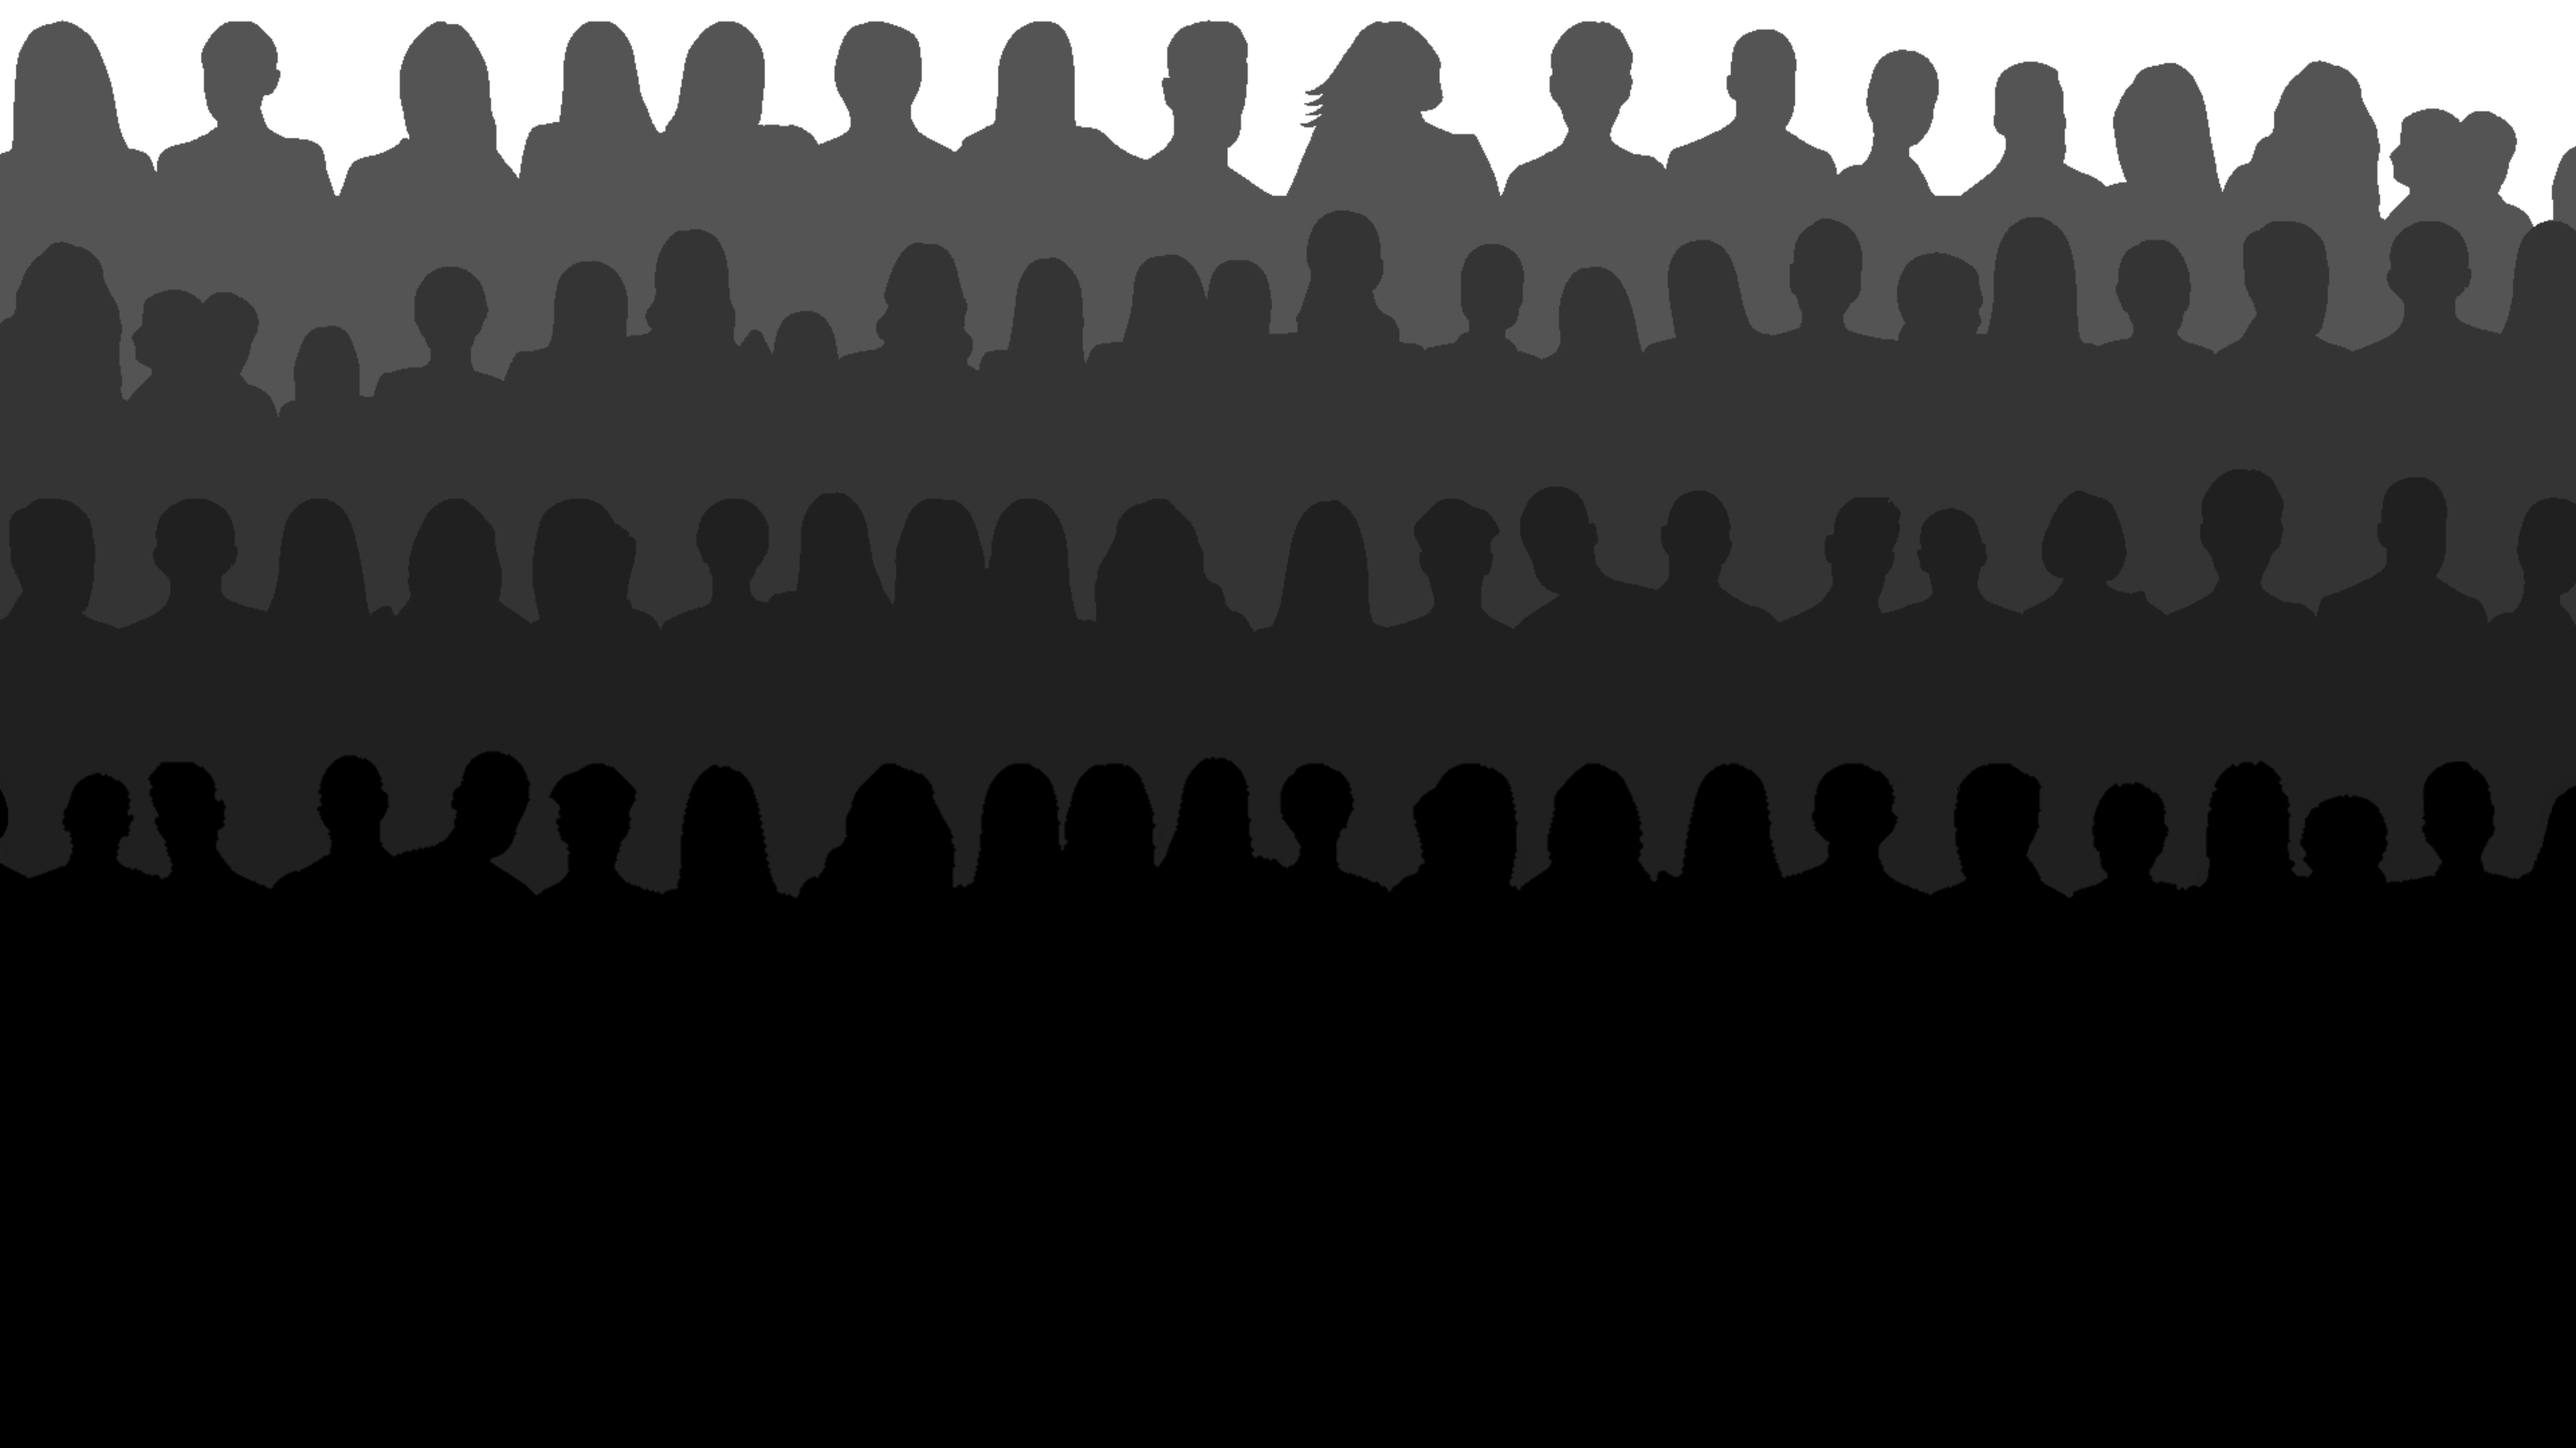
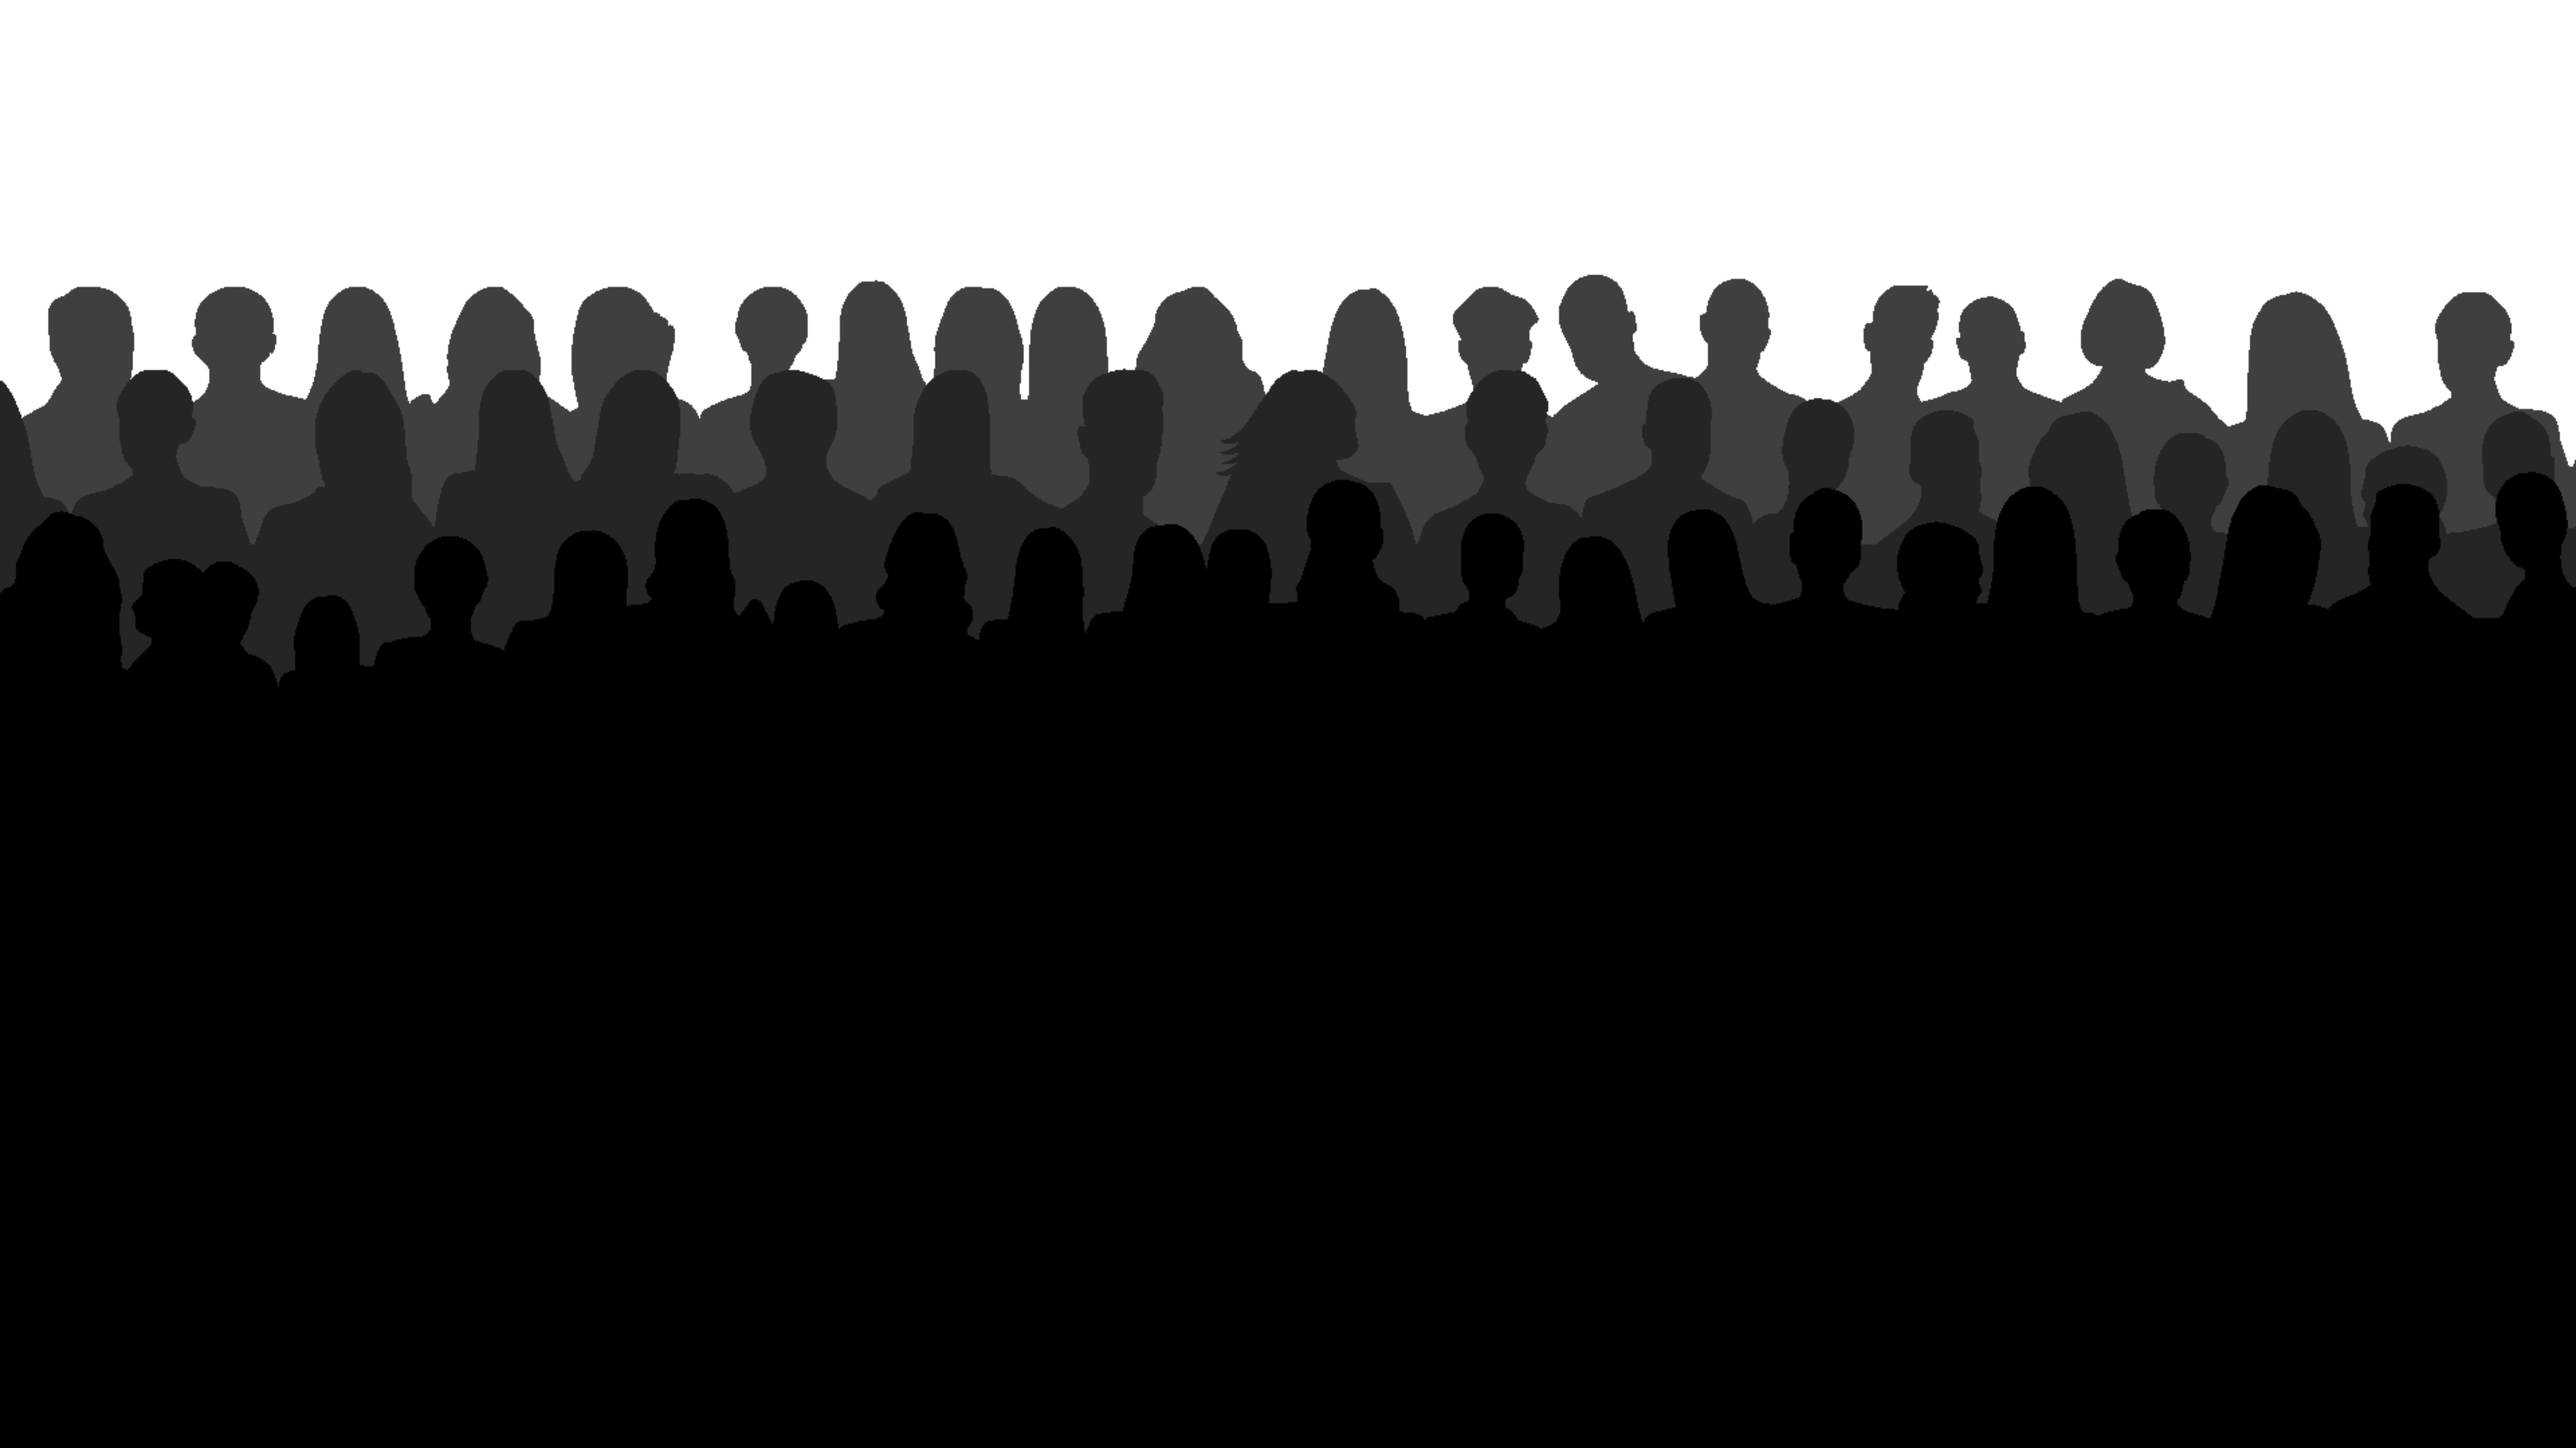
page setup

diff --git a/src/App.css b/src/App.css
@@ -11,7 +11,6 @@
   font-style: normal;
 }
 
-
 .nav-row {
   border-radius: 25px;
   width: fit-content;
@@ -63,7 +62,7 @@
   transform-origin:bottom center;
 }
 
-.home-container{
+.home-page{
   min-height: 100vh;
   display: flex;
   justify-content: center;
@@ -94,12 +93,12 @@
   width: 100%;      /* full width of video */
   height: auto;     /* maintain aspect ratio */
   display: block;
-  transform: translateY(55%);
+  transform: translateY(34%);
   mask-image: linear-gradient(to bottom, rgba(0,0,0,0) 0%, rgba(0,0,0,1) 30%);
-  -webkit-mask-image: linear-gradient(to bottom, rgba(0,0,0,0) 0%, rgba(0,0,0,1) 20%);
+  -webkit-mask-image: linear-gradient(to bottom, rgba(0,0,0,0) 0%, rgba(0,0,0,1) 38%);
 }
 
-.home {
+.home-container {
   box-shadow: #E31C2D 10px 10px 30px -10px;
   background: rgba(18, 18, 18, 0.65);
   backdrop-filter: blur(6px);
@@ -148,6 +147,8 @@ header {
   display:  flex;
   gap: 3rem;
   align-items: flex-start;
+  position: relative;
+  z-index: 2;
 }
 .about-container {
   display: flex;
@@ -161,6 +162,7 @@ header {
   border-radius: 25px;
   padding: 2rem 2rem; 
 }
+
 .hobbies-container {
   display: flex;
   flex-direction: column;
@@ -169,6 +171,7 @@ header {
   justify-content: center;
   gap: 2rem;
   width: 100%;
+  z-index: 2;
 
   box-shadow: #E31C2D 10px 10px 30px -10px;
   background: rgba(18, 18, 18, 0.65);
@@ -193,3 +196,22 @@ header {
   padding-top: 5rem;
 }
 
+.projects-page {
+  min-height: 100vh;
+  display: flex;
+  justify-content: center;
+  align-items: flex-start;
+  padding-top: 6rem;
+  overflow: visible;
+}
+
+.projects-container {
+  box-shadow: #E31C2D 10px 10px 30px -10px;
+  background: rgba(18, 18, 18, 0.65);
+  backdrop-filter: blur(6px);
+  border-radius: 25px;
+  padding: 2rem 3rem; 
+  position: relative;
+  z-index: 1;
+  max-width: 700px;
+}

diff --git a/src/pages/About.jsx b/src/pages/About.jsx
@@ -1,5 +1,8 @@
+import video from '../assets/instantcrush.mp4'
+
 import portrait from '../assets/portrait.jpg'
 import Slider from '../components/slider/slider.jsx';
+import crowd from '../assets/background.png'
 
 import brothers from '../components/slider/people-images/brothers.jpg';
 import girlfriend from '../components/slider/people-images/girlfriend.jpg';
@@ -14,7 +17,14 @@ const images = [
 function About() {
   return (
     <div className="about-page">
-
+      <video autoPlay loop muted className="video">
+        <source src={video} type="video/mp4" />
+      </video>
+      <div className="crowd-container">
+        <img src={crowd} alt="crowd" className="crowd-image" />
+      </div> 
+      
+      
       <div className = "two-column">
         <div className="portrait-container">
           <img src={portrait} alt="Ethan Zeng Portrait" className="portrait" />

diff --git a/src/pages/Projects.jsx b/src/pages/Projects.jsx
@@ -1,10 +1,22 @@
+import video from '../assets/robotrock.mp4'
+import crowd from '../assets/background.png'
+
 function Projects() {
   return (
-    <div>
-      <div className="header">
-      <h2>Projects</h2>
+    <div className='projects-page'>
+      <video autoPlay loop muted className="video">
+        <source src={video} type="video/mp4" />
+      </video>
+      <div className="crowd-container">
+        <img src={crowd} alt="crowd" className="crowd-image" />
+      </div> 
+      <div className="projects-container">
+        <div className="header">
+          <h2>Projects</h2>
+          </div>
+        <p>Here are some of the things I’ve built so far :)</p>
+        
       </div>
-      <p>Here are some of the things I’ve built</p>
     </div>
   )
 }

diff --git a/src/pages/Home.jsx b/src/pages/Home.jsx
@@ -3,14 +3,14 @@ import crowd from '../assets/background.png'
 
 function Home() {
   return (
-    <div className ="home-container">
+    <div className ="home-page">
       <video autoPlay loop muted className="video">
         <source src={video} type="video/mp4" />
-        </video>
+      </video>
       <div className="crowd-container">
         <img src={crowd} alt="crowd" className="crowd-image" />
       </div>    
-      <div className="home">
+      <div className="home-container">
       <div className="intro-text">
         <div className = "header">
           <h1>WELCOME!</h1>
